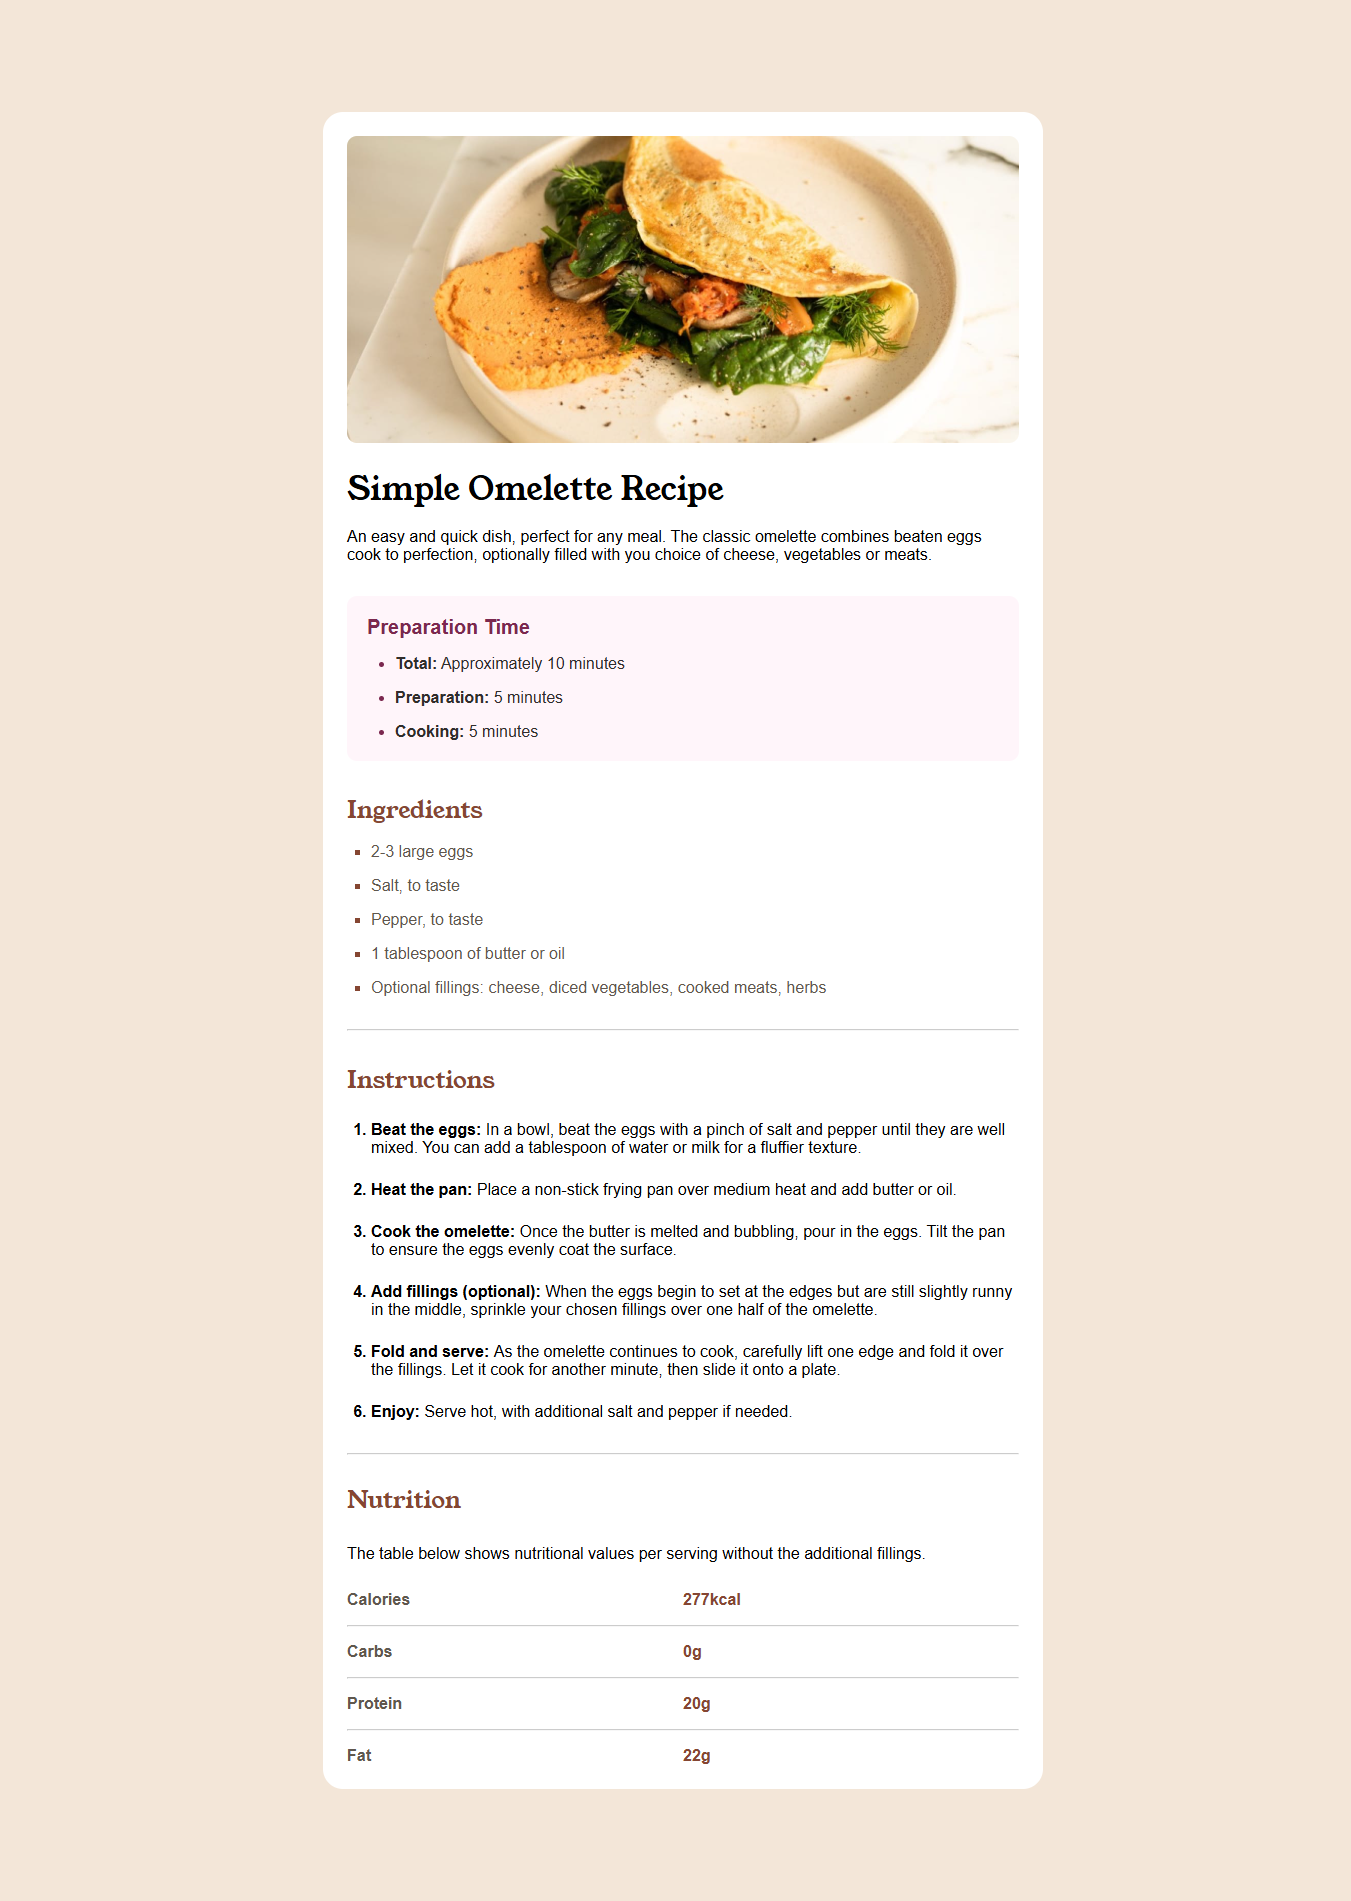
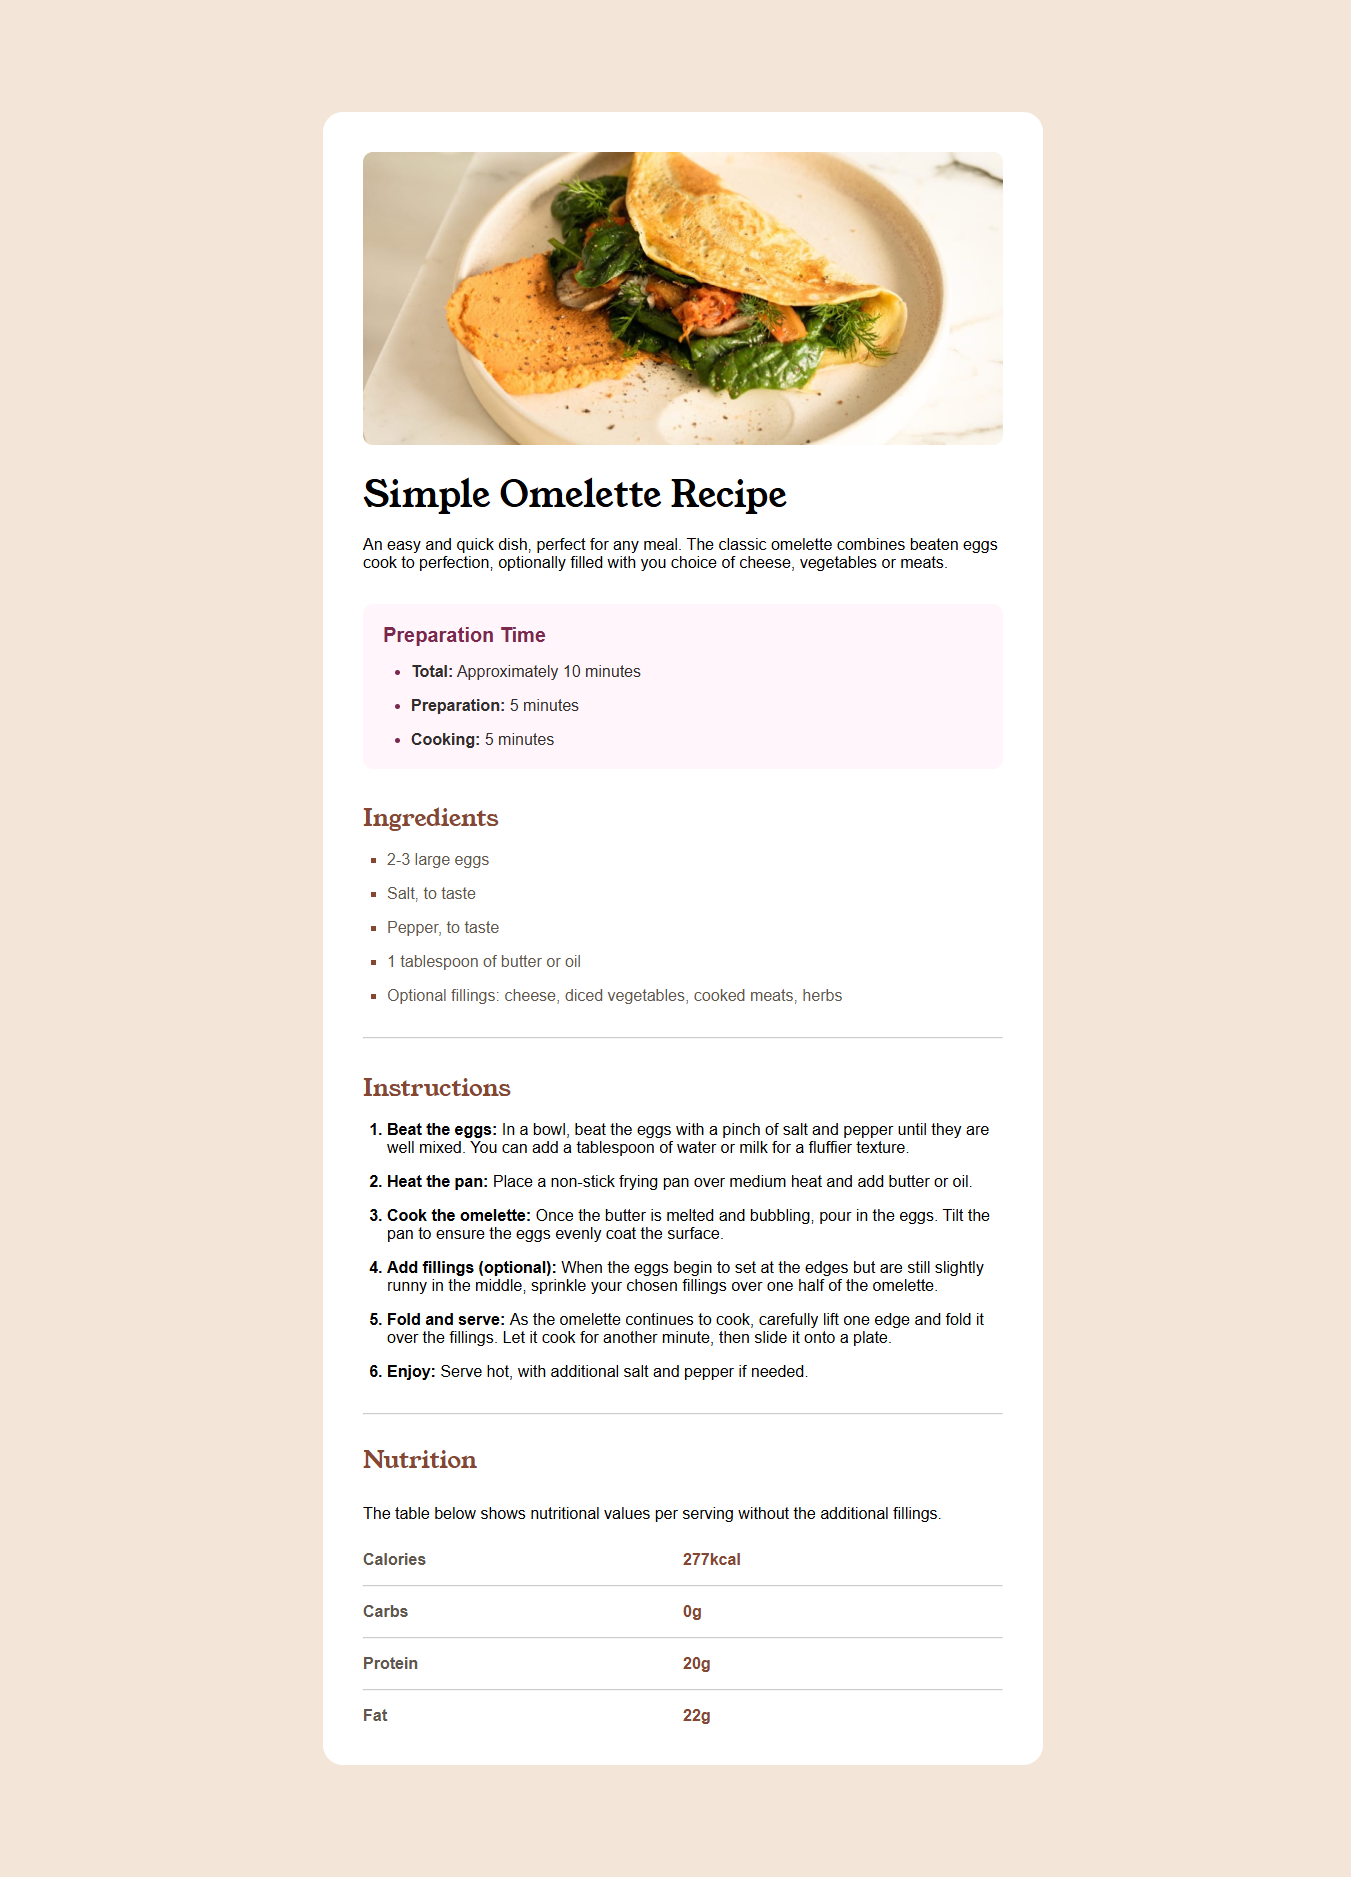
updated the screenshot

Changed region(s): [[0.2487, 0.0618, 0.7461, 0.927], [0.6839, 0.2163, 0.7461, 0.2472]]

diff --git a/styles/main.css b/styles/main.css
@@ -44,7 +44,7 @@ body{
 .page-container{
     background-color: var(--White);
     border-radius: 1.25rem;
-    padding: 1.5rem;
+    padding: 2.5rem;
     display: flex;
     flex-direction: column;
     min-height: 100vh;
@@ -57,7 +57,7 @@ body{
 }
 
 .page-title{
-    font-size: 2rem;
+    font-size: 2.25rem;
     font-weight: 400;
     margin-block-start: 1.5rem;
     margin-block-end: 1rem;
@@ -126,7 +126,7 @@ body{
 }
 
 .instructions-list{
-    margin-block-start: 1.5rem;
+    margin-block-start: 1rem;
     font-weight: 700;
 }
 
